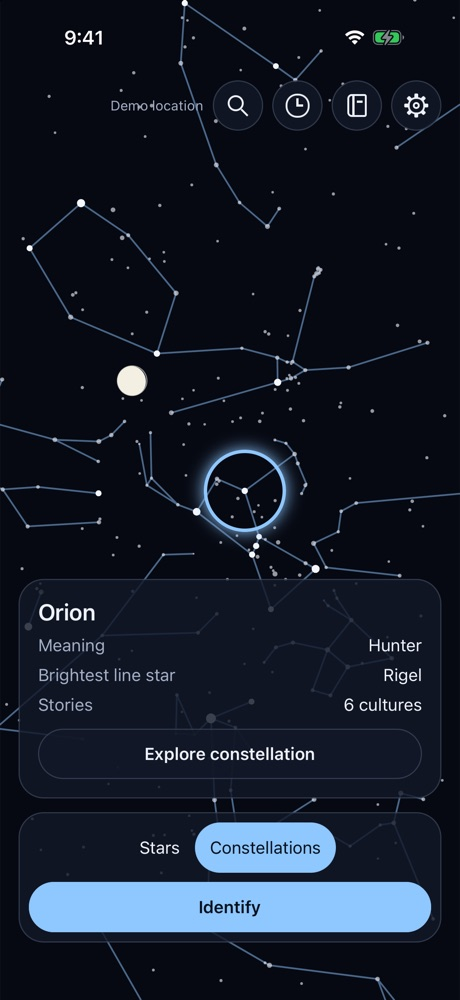
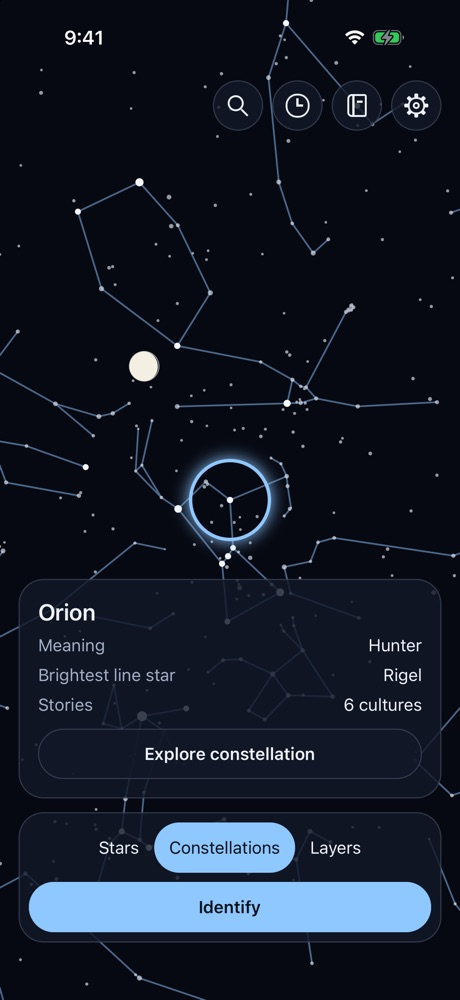
docs: retake README screenshots with Layers, add the ISS and its next pass

diff --git a/README.md b/README.md
@@ -5,7 +5,9 @@
 Point a phone at the night sky and see what is there. Stellar draws the real stars, constellations, Moon, planets and bright satellites over the camera, locks on to whatever is under the reticle, and tells its story: catalog facts, known exoplanets, research papers, and the stories other cultures tell about it. Built with Expo, React Native and Skia.
 
 <p>
-  <img src="docs/images/sky.jpg" alt="The sky screen locked on to Orion: constellation lines, the Moon, a glowing reticle and a card reading Orion, Hunter, brightest line star Rigel, stories from 6 cultures" width="200">
+  <img src="docs/images/sky.jpg" alt="The sky screen locked on to Orion: constellation lines, the Moon, a glowing reticle, a card reading Orion, Hunter, brightest line star Rigel, stories from 6 cultures, and the Stars, Constellations and Layers modes" width="200">
+  <img src="docs/images/satellite.jpg" alt="Layers mode with time travel set to 5:41 PM, locked on to the ISS: a card reading ISS (ZARYA), height 419 km, speed 7.7 km/s, sunlit, orbit data 1 day old, and a button for the next pass and details" width="200">
+  <img src="docs/images/pass.jpg" alt="The ISS details screen: next visible pass appearing at 5:38 PM 10 degrees northwest, highest at 5:40 PM 21 degrees north, disappearing at 5:41 PM 19 degrees northeast, and its height, speed and sunlight right now" width="200">
   <img src="docs/images/mythology.jpg" alt="Orion's details on the Mythology tab: tabs for Greek, Egyptian, Sámi, Norse, Hawaiian and Chinese, the figure, and the Egyptian story of Sah with a link to its source" width="200">
   <img src="docs/images/starship.jpg" alt="The same sky in the Starship look: pink constellation lines over a purple nebula, a green reticle and a small green alien at the edge" width="200">
   <img src="docs/images/night.jpg" alt="The same sky in night vision: every line, mark and control in pure red on black" width="200">
